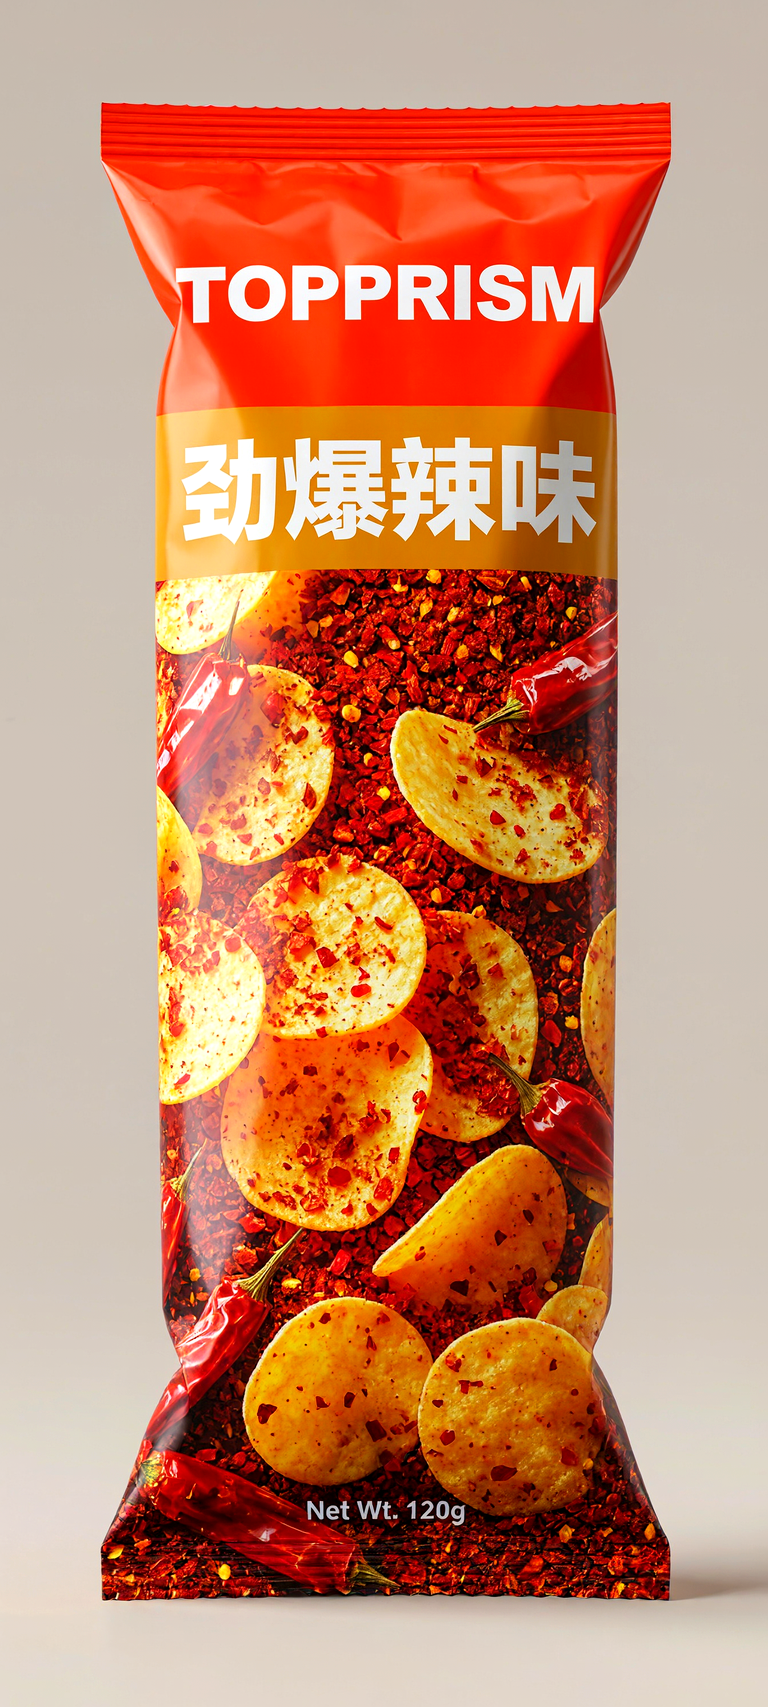
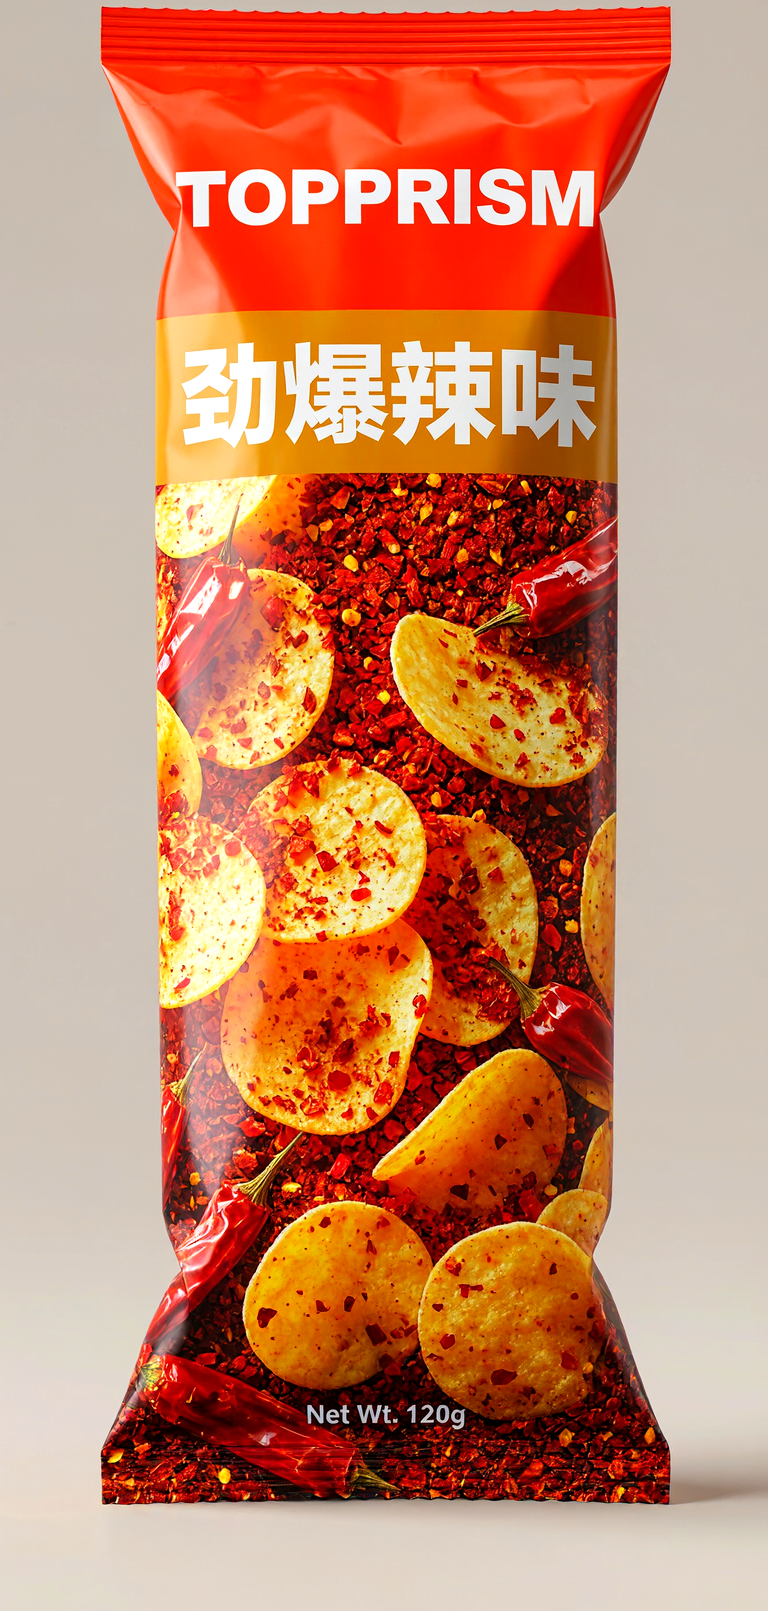
V51-V53 逐SKU优化#1: 全袋/罐/瓶/托盘装印刷紧裁根因修 — packshot米色摄影边距直映袋面成白翼; tight_crop helper (barrel/bottle/tray直用dpath0分支) + bag路径sat后内联紧裁 + 36设计.tight缓存; HXL_RES分辨率旋钮(2x=1440x2088 文字锐度); barrel单探针验证tight/raw对照; V53全帧验收: 番茄袋红满袋面/全SKU印刷铺满/粉盒V50设计完好/构图不变

diff --git a/scripts/build_hxl_shelf.py b/scripts/build_hxl_shelf.py
@@ -539,9 +539,33 @@ def tray_flat_fill(name, cx, y_in, z_bot, bw_, rgb, dpath, rng):
             pk.rotation_euler = (0, 0, math.radians(rz))
             pk.scale = (pw / 2, pd / 2, th / 2)
             pk.data.materials.append(side)
-            img_plane(f"{name}_t{st}_{k}", dpath, pw * 0.92, pd * 0.92,
+            img_plane(f"{name}_t{st}_{k}", tight_crop(Path(dpath)) if not isinstance(dpath, Path) or not str(dpath).endswith(".tight.png") else dpath, pw * 0.92, pd * 0.92,
                       (sx + ox, y_in, zz + th + 0.002),
                       rot=(-90, 0, rz), emissive=0.08, rough=0.55)
+
+
+TIGHT_CACHE = {}  # V52: 设计紧裁缓存 (stem -> Path)
+
+
+def tight_crop(png: Path) -> Path:
+    """V52: 紧裁 packshot 到剪影 — 摄影米色边距直接卷上 barrel/托盘/瓶面成"白翼" (根因修).
+    bag 路径已有内联紧裁 (sat 后); 此 helper 服务 barrel/托盘/瓶等直用 dpath0 的分支."""
+    out = png.with_suffix(".tight.png")
+    if out.exists():
+        return out
+    import numpy as _np
+    im = Image.open(png).convert("RGB")
+    a = _np.asarray(im, float)
+    e = np.concatenate([a[:, :24], a[:, -24:]], axis=1)
+    bg = np.median(e.reshape(-1, 3)[::7], axis=0)
+    d = np.abs(a - bg[None, None, :]).sum(-1)
+    ys, xs = np.where(d > 60)
+    if len(xs) > 100:
+        x0, x1 = max(int(xs.min()) - 6, 0), min(int(xs.max()) + 6, a.shape[1])
+        y0, y1 = max(int(ys.min()) - 6, 0), min(int(ys.max()) + 6, a.shape[0])
+        im.crop((x0, y0, x1, y1)).save(out)
+        return out
+    return png
 
 
 def bag_material(name, tex_path, rough=0.4, emissive=0.06, uv_rot=0.0, uv_scale=1.0, uv_tr=(0.0, 0.0), warp=0.0,
@@ -853,7 +877,8 @@ def main():
     sc.view_settings.look = "AgX - Punchy"   # 默认 look 强去饱和 (冷柜线已知坑)
     sc.view_settings.exposure = -0.55
     sc.view_settings.gamma = 1.02
-    sc.render.resolution_x, sc.render.resolution_y = 720, 1044
+    _res = float(os.environ.get("HXL_RES", "1"))  # V51: 分辨率倍率 (逐SKU印刷优化底座)
+    sc.render.resolution_x, sc.render.resolution_y = int(720 * _res), int(1044 * _res)
     w = bpy.data.worlds.new("w"); sc.world = w; w.use_nodes = True
     # H1 光照重构: HDRI 世界给光泽面反射内容 (黑虚空=塑料感根源, 杠杆#4)
     env = w.node_tree.nodes.new("ShaderNodeTexEnvironment")
@@ -981,10 +1006,10 @@ def main():
                         tray_basket(f"tray{lv}_{r_i}_{b}", bx, y_c, z_bot, bw_)
                         if g["form"] == "tray_lean":
                             tray_lean_fill(f"tray{lv}_{r_i}_{b}", bx, y_c, z_bot, bw_,
-                                           dpath0 if dpath0.exists() else None, rng)
+                                           tight_crop(dpath0) if dpath0.exists() else None, rng)
                         else:
                             tray_flat_fill(f"tray{lv}_{r_i}_{b}", bx, y_c, z_bot, bw_, rgb,
-                                           dpath0 if dpath0.exists() else None, rng)
+                                           tight_crop(dpath0) if dpath0.exists() else None, rng)
                     continue
                 # V31: 拿货缺口段 (九审 P0 非均匀补货节奏; 中下层 30% 组触发)
                 gap_at = set()
@@ -1020,7 +1045,7 @@ def main():
                     if g["form"] == "barrel":
                         barrel_placeholder(f"barrel{lv}_{r_i}_{i}", x_bag, y_bag, z_bot, rgb,
                                            dia=min(0.085, bgw * 0.92), hgt=LEVEL_H * 0.78,
-                                           rng=rng, tex_path=dpath0 if dpath0.exists() else None)
+                                           rng=rng, tex_path=tight_crop(dpath0) if dpath0.exists() else None)
                         continue
                     if g["form"] == "box":
                         # V29: 盒组陈列姿态 (六审 P0) — 前排退让 3cm 消前突 + 前排 88% 高
@@ -1065,7 +1090,7 @@ def main():
                         # P0-3: 瓶装 (A L7 深色瓶罐块): 细径高瓶, 复用圆柱占位 (盖=瓶盖)
                         barrel_placeholder(f"bottle{lv}_{r_i}_{i}", x_bag, y_bag, z_bot, rgb,
                                            dia=min(0.05, bgw * 0.9), hgt=LEVEL_H * 0.88,
-                                           rng=rng, tex_path=dpath0 if dpath0.exists() else None)
+                                           rng=rng, tex_path=tight_crop(dpath0) if dpath0.exists() else None)
                         continue
                     # H12: 组独立印刷设计 (bag_print, 组=SKU 设计一对一)
                     gidx, style, dpath = gidx0, style0, dpath0
@@ -1111,6 +1136,19 @@ def main():
                     _satp = dpath.with_suffix(".sat.png")
                     _sat.save(_satp)
                     a = _satp
+                    # V52: 紧裁到袋剪影 — packshot 米色摄影边距被 ar 裁切保留并映上袋面成"白翼" (全袋SKU根因修)
+                    _tg = Image.open(_satp).convert("RGB")
+                    _ta = np.asarray(_tg, float)
+                    _te = np.concatenate([_ta[:, :24], _ta[:, -24:]], axis=1)
+                    _tb = np.median(_te.reshape(-1, 3)[::7], axis=0)
+                    _td = np.abs(_ta - _tb[None, None, :]).sum(-1)
+                    _ty, _tx = np.where(_td > 60)
+                    if len(_tx) > 100:
+                        _x0t, _x1t = max(int(_tx.min()) - 6, 0), min(int(_tx.max()) + 6, _ta.shape[1])
+                        _y0t, _y1t = max(int(_ty.min()) - 6, 0), min(int(_ty.max()) + 6, _ta.shape[0])
+                        _tg.crop((_x0t, _y0t, _x1t, _y1t)).save(_satp)
+                    import os as _os2
+                    print("V52_TIGHT_CROP_APPLIED", _satp, _os2.path.getsize(_satp))
                     ar_g2 = (0.40, 0.58)[(j * 7 + lv * 3) % 2]  # 与槽宽推导同源
                     _im = Image.open(a)
                     if _im.width / _im.height < ar_g2 - 0.04:
